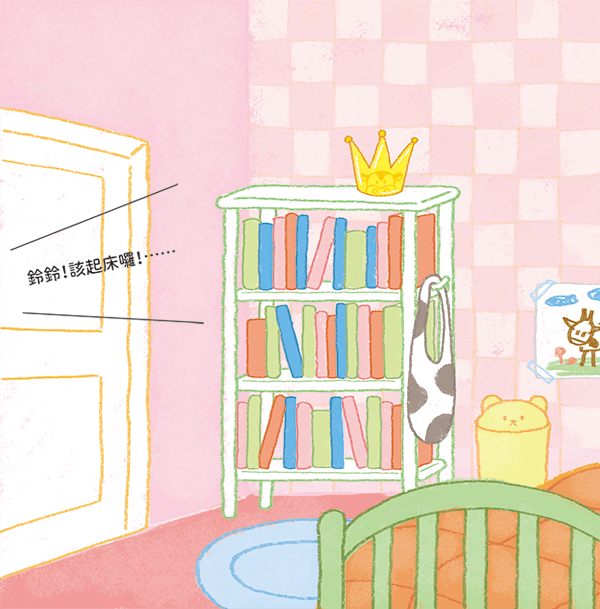
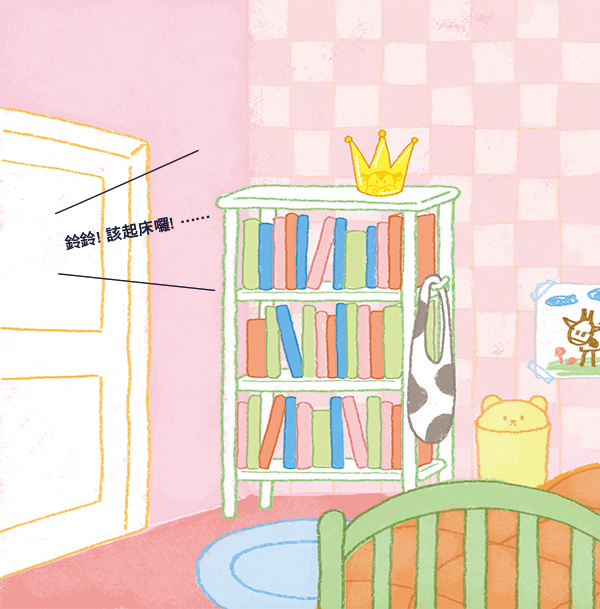
git:調整圖片

Changed region(s): [[0.03, 0.2808, 0.3, 0.468], [0.03, 0.468, 0.36, 0.5304], [0.27, 0.2496, 0.33, 0.2808]]

diff --git a/js/book.js b/js/book.js
@@ -994,6 +994,7 @@ $(function () {
     $(".daughter-hand-cup").css("opacity", "0");
     $(".mom-hand-milk").css("opacity", "0");
     $(".cheers").removeClass("bubble-fade-in");
+    $(".text26").removeClass("opacity-show");
     const removeClasses = [
       // 手部完成、移除
       "father-hand-finish",
@@ -2741,6 +2742,7 @@ $(function () {
       if (!$(".mom-hand").length) {
         page2627Timeouts.push(
           setTimeout(() => {
+            $(".text26").addClass("opacity-show");
             $("#flipbook").append(
               ' <div class="mom-hand-region"><div class="mom-hand-milk-region"><img class="mom-hand-milk" src="./images/book/book2627/milk.png"/><img class="mom-hand-cup" src="./images/book/book2627/cup.png"/></div><img class="mom-hand" src="./images/book/book2627/mom-hand.png"/></div>',
             );

diff --git a/style.css b/style.css
@@ -3436,6 +3436,18 @@ button {
   transition: all 1s ease-in-out;
 }
 
+.text26 {
+  position: absolute;
+  bottom: 0;
+  left: 0;
+  z-index: 2;
+  width: 100%;
+  height: 100%;
+  margin: auto;
+  opacity: 0;
+  transition: all 1s ease-in-out;
+}
+
 .all-milk-stains {
   position: absolute;
   top: 0;
@@ -3873,6 +3885,10 @@ button {
   100% {
     transform: rotate(0deg);
   }
+}
+
+.opacity-show {
+  opacity: 1;
 }
 
 .bubble-fade-in {

diff --git a/index.html b/index.html
@@ -548,6 +548,7 @@
                   src="./images/book/book2627/book260.png"
                 />
               </div>
+              <img class="text26" src="./images/book/book2627/text26.png" />
               <div class="father-hand-region">
                 <img
                   class="father-hand-milk"
